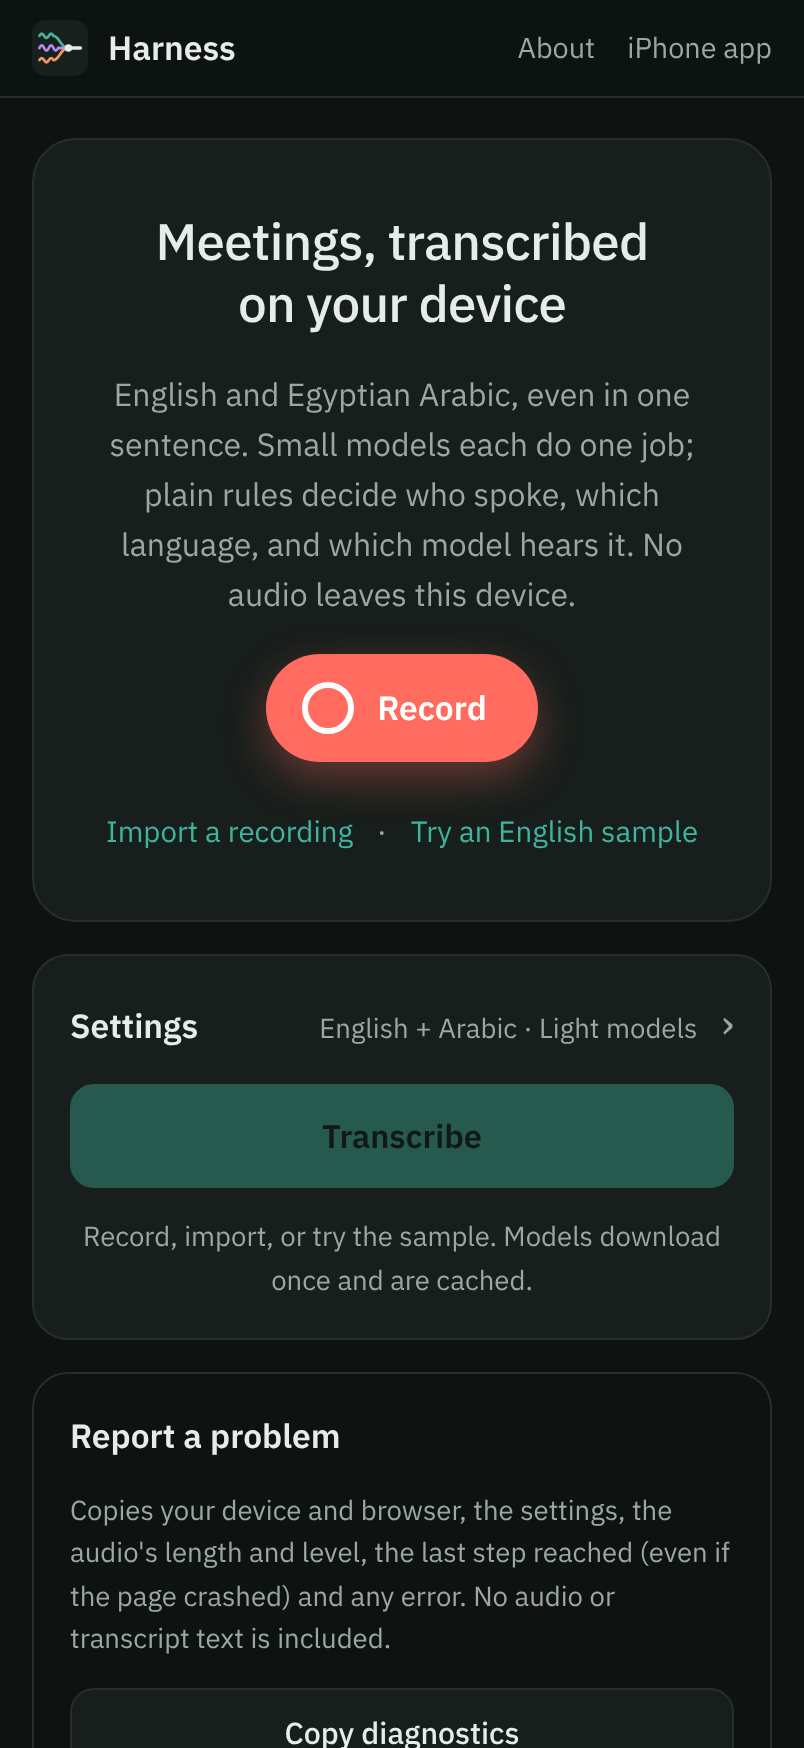
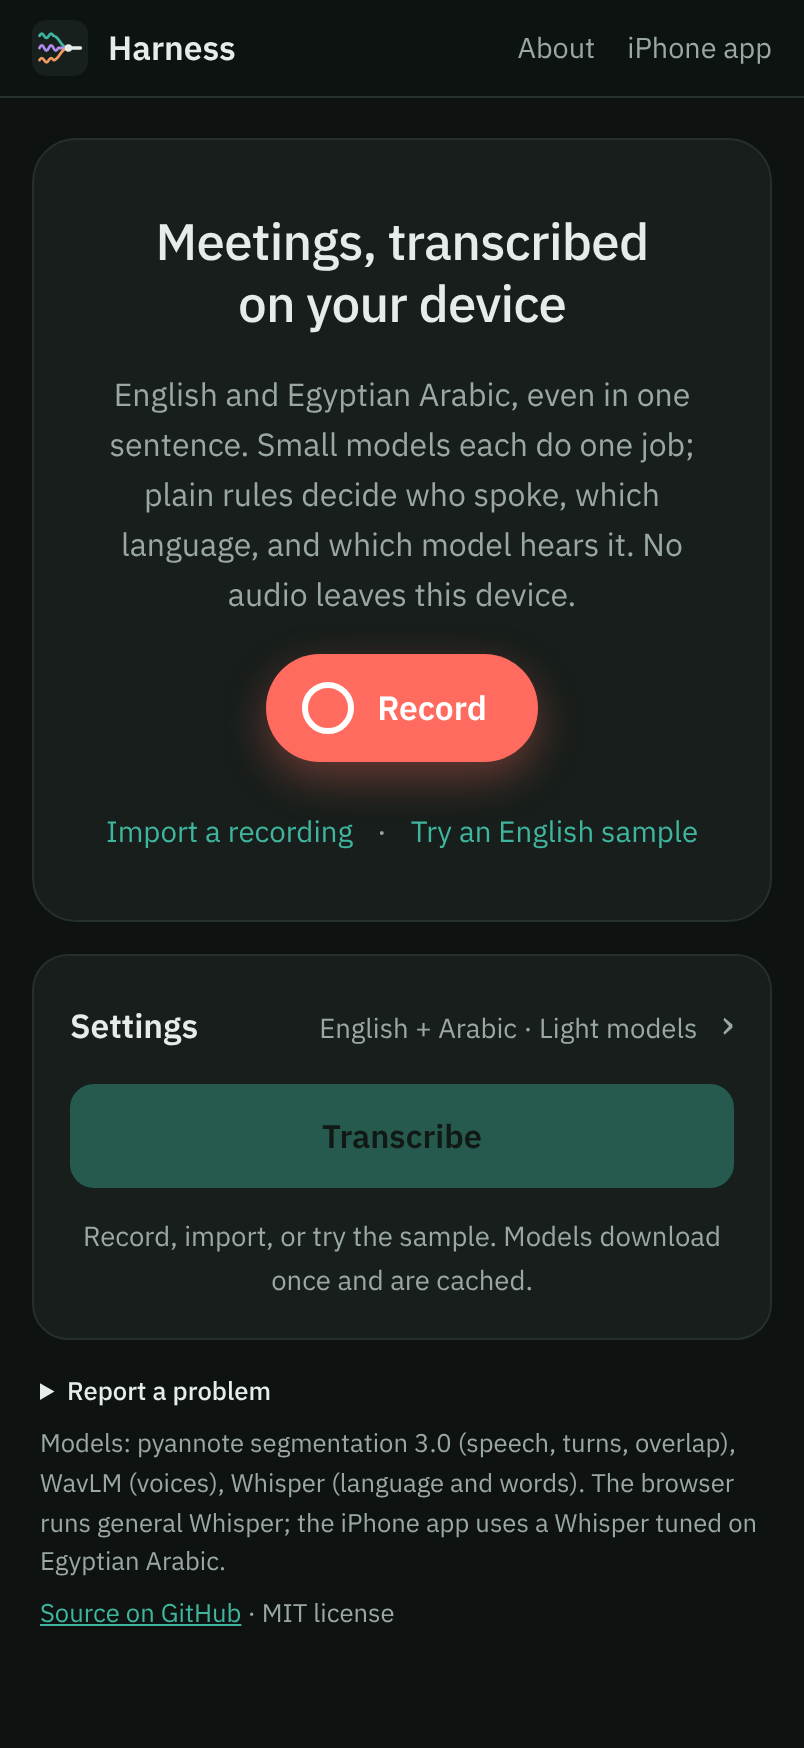
Web: a laptop layout, a recorder-only page while recording, Space to record
- While recording, only the recorder shows; captions get most of the screen
- From 1100 px wide: a wider column, speakers and stats beside the transcript
- Transcribe becomes a quiet "Transcribe again" once a transcript exists;
  new audio clears the old transcript
- Report a problem moves into the footer (opens itself after a crash)
- Space starts and stops a recording; a hint shows on devices with a mouse
- Speed reads "22×", the recording dot is clearer, the clock sits on the
  right, and the player appears once it knows the audio's length
- Refreshed web screenshots, plus laptop ones in the README

Claude-Session: https://claude.ai/code/session_014xnhRBsDfnwnmLicnjFtUc

Changed region(s): [[0.0311, 0.7723, 0.9639, 0.9577], [0.342, 0.9886, 0.653, 1.0]]

diff --git a/web/app.js b/web/app.js
@@ -96,7 +96,7 @@ $('record').addEventListener('click', async () => {
   } catch (e) {
     return showError(e.name === 'NotAllowedError' ? 'Microphone access was refused. Allow it in your browser settings, then try again.' : e.message);
   }
-  $('studio').dataset.state = 'recording';
+  setRecording(true);
   $('audio-ready').hidden = true;
   $('results').hidden = true;
   $('record-time').textContent = '00:00';
@@ -122,6 +122,22 @@ $('record').addEventListener('click', async () => {
   }
 });
 
+/** While recording, the page shows only the recorder: settings and old results wait. */
+function setRecording(on) {
+  $('studio').dataset.state = on ? 'recording' : 'idle';
+  document.body.dataset.mode = on ? 'recording' : '';
+}
+
+// Space starts and stops a recording, unless the focus is somewhere typing or clicking.
+addEventListener('keydown', (e) => {
+  if (e.code !== 'Space' || e.repeat || e.metaKey || e.ctrlKey || e.altKey) return;
+  if (e.target.closest?.('input, textarea, select, button, summary, audio, a, [contenteditable]')) return;
+  const recording = $('studio').dataset.state === 'recording';
+  if (!recording && ($('record').disabled || !$('progress').hidden)) return;
+  e.preventDefault();
+  $(recording ? 'stop' : 'record').click();
+});
+
 $('stop').addEventListener('click', async () => {
   clearInterval(ticker);
   cancelAnimationFrame(meterFrame);
@@ -133,7 +149,7 @@ $('stop').addEventListener('click', async () => {
   const recordedSeconds = recorder.elapsed;
   const mimeType = recorder.mimeType;
   const blob = await recorder.stop();
-  $('studio').dataset.state = 'idle';
+  setRecording(false);
   const ok = await useAudio(blob, `Recording ${new Date().toLocaleTimeString([], { hour: '2-digit', minute: '2-digit' })}`, { recordedSeconds, mimeType });
   if (ok) $('run').click();
 });
@@ -223,16 +239,30 @@ async function useAudio(blob, name, { recordedSeconds = null, mimeType = '' } = 
   }
   if (!Number.isFinite(speechDb) || speechDb < -60) notes.push('This audio is almost silent. Check the microphone and record closer to the sound.');
   state.audioName = name;
+  state.result = null;
+  $('results').hidden = true;
   $('audio-name').textContent = name;
   $('audio-duration').textContent = `${timestamp(seconds)} · speech level ${Number.isFinite(speechDb) ? speechDb.toFixed(0) : '–∞'} dB` +
     (gainDb > 1 ? `, raised ${gainDb.toFixed(0)} dB` : '');
   $('audio-note').textContent = notes.join(' ');
   $('audio-note').hidden = !notes.length;
+  $('player').hidden = true;
   $('player').src = URL.createObjectURL(blob);
   $('audio-ready').hidden = false;
-  $('run').disabled = false;
+  setRunButton(false);
   $('run-hint').textContent = 'The first run downloads the models, which can take a few minutes.';
   return true;
+}
+
+// The player appears once it knows the audio's length, never as an empty 0:00 / 0:00.
+$('player').addEventListener('loadedmetadata', () => ($('player').hidden = false));
+
+/** Before a run, Transcribe is the next step; after one, it becomes a quiet "Transcribe again". */
+function setRunButton(done) {
+  $('run').disabled = false;
+  $('run').textContent = done ? 'Transcribe again' : 'Transcribe';
+  $('run').classList.toggle('primary', !done);
+  $('run-hint').hidden = done;
 }
 
 // MARK: - Enrollment
@@ -291,7 +321,7 @@ $('run').addEventListener('click', async () => {
   } finally {
     wakeLock?.release?.().catch(() => {});
     showProgress(false);
-    $('run').disabled = false;
+    setRunButton(Boolean(state.result));
   }
 });
 
@@ -411,15 +441,16 @@ function renderResult() {
   const stats = [
     ['Audio', timestamp(duration)],
     ['Processing', `${wall.toFixed(0)} s`],
-    ['Speed', `${(duration / wall).toFixed(2)}× real time`],
+    ['Speed', speed(duration / wall), 'times faster than real time'],
     ['Speakers', String(speakerIds.length)],
     ['Languages', langs.join(' + ') || '–'],
   ];
-  $('stats').replaceChildren(...stats.map(([k, v]) => {
+  $('stats').replaceChildren(...stats.map(([k, v, title]) => {
     const div = document.createElement('div');
     div.innerHTML = '<dt></dt><dd></dd>';
     div.firstChild.textContent = k;
     div.lastChild.textContent = v;
+    if (title) div.title = title;
     return div;
   }));
 
@@ -457,6 +488,11 @@ function renderResult() {
   $('log').textContent = log.join('\n');
   $('results').hidden = false;
   $('results').scrollIntoView({ behavior: matchMedia('(prefers-reduced-motion: reduce)').matches ? 'auto' : 'smooth' });
+}
+
+/** "22×", "3.4×", "0.6×": enough digits to compare, no more. */
+function speed(x) {
+  return `${x >= 10 ? Math.round(x) : x.toFixed(1)}×`;
 }
 
 function renderTranscript(t) {
@@ -591,8 +627,9 @@ function breadcrumb(update) {
   $('last-run').textContent =
     `The last run stopped during ${last.step} (${last.stage}) with ${last.preset} models on ${last.seconds ?? '?'} s of audio. ` +
     'The browser most likely ran out of memory and closed the page. Use Light models or a shorter recording, ' +
-    'and tap Copy diagnostics below to report it.';
+    'and use Report a problem at the bottom of the page.';
   $('last-run').hidden = false;
+  $('report').open = true;
   $('error-text').textContent = 'Previous run crashed.';
   $('error').hidden = false;
   breadcrumb({ status: 'reported' });
@@ -635,6 +672,7 @@ $('copy-diag').addEventListener('click', async () => {
 addEventListener('error', (e) => showError(`Unexpected error: ${e.message}`));
 addEventListener('unhandledrejection', (e) => showError(`Unexpected error: ${e.reason?.message ?? e.reason}`));
 function hideError() { $('error').hidden = true; }
+$('open-report').addEventListener('click', () => ($('report').open = true));
 
 // MARK: - Settings summary
 
@@ -649,7 +687,7 @@ updateSetupSummary();
 
 const demo = new URLSearchParams(location.search).get('demo');
 if (demo === 'live') {
-  $('studio').dataset.state = 'recording';
+  setRecording(true);
   $('record-time').textContent = '12:34';
   renderCaptions(DEMO_CAPTIONS.lines, DEMO_CAPTIONS.draft);
   $('live-hint').textContent = 'Live captions are drafts. The full transcript, with speakers, is made when you stop.';
@@ -661,7 +699,7 @@ if (demo === 'live') {
   $('audio-name').textContent = 'Product standup';
   $('audio-duration').textContent = '12:34 · speech level −31 dB, raised 11 dB';
   $('audio-ready').hidden = false;
-  $('run').disabled = false;
+  setRunButton(true);
   renderResult();
   window.scrollTo(0, 0);
 }

diff --git a/web/styles.css b/web/styles.css
@@ -61,6 +61,9 @@ p { margin: 0; }
 .visually-hidden { position: absolute; width: 1px; height: 1px; overflow: hidden; clip: rect(0 0 0 0); white-space: nowrap; }
 .warn-note { font-size: 0.86rem; color: var(--warn); background: var(--warn-bg); padding: 8px 12px; border-radius: 10px; }
 
+/* While recording, the recorder is the whole page. */
+body[data-mode="recording"] .page > :not(.studio):not(.error) { display: none; }
+
 /* MARK: Studio */
 .studio { border-radius: 22px; overflow: hidden; background: var(--card); border: 1px solid var(--rule); }
 .studio-idle { display: grid; justify-items: center; gap: 18px; padding: 36px 22px 26px; text-align: center; }
@@ -69,20 +72,23 @@ p { margin: 0; }
 .record-button { appearance: none; border: 0; cursor: pointer; display: inline-flex; align-items: center; gap: 12px; padding: 14px 26px 14px 18px; border-radius: 999px; background: var(--record); color: #fff; font: 600 1.05rem var(--sans); box-shadow: 0 8px 22px color-mix(in srgb, var(--record) 35%, transparent); }
 .record-dot { width: 26px; height: 26px; border-radius: 50%; border: 3px solid #fff; background: var(--record); box-shadow: inset 0 0 0 3px var(--record); }
 .studio-links { display: flex; gap: 10px; align-items: center; color: var(--muted); font-size: 0.92rem; }
+.key-hint { display: none; margin-top: -10px; font-size: 0.82rem; color: var(--muted); }
+@media (hover: hover) and (pointer: fine) { .key-hint { display: block; } }
+kbd { font: 500 0.78rem var(--mono); padding: 1px 6px; border: 1px solid var(--rule); border-bottom-width: 2px; border-radius: 5px; background: var(--paper); }
 .text-button { appearance: none; background: none; border: 0; color: var(--signal); font: inherit; cursor: pointer; padding: 6px 2px; }
 
 .studio-live { display: none; background: var(--night); color: var(--night-ink); padding: 18px 20px 22px; gap: 14px; min-height: 420px; grid-template-rows: auto auto 1fr auto auto; }
 .studio[data-state="recording"] .studio-live { display: grid; }
 .studio[data-state="recording"] .studio-idle { display: none; }
 .studio[data-state="recording"] { border-color: transparent; }
-.live-head { display: flex; align-items: center; gap: 10px; font-weight: 600; font-size: 0.95rem; }
-.live-dot { width: 10px; height: 10px; border-radius: 50%; background: #ff6b5f; }
-@media (prefers-reduced-motion: no-preference) { .live-dot { animation: pulse 1.2s ease-in-out infinite; } }
-@keyframes pulse { 50% { opacity: 0.3; } }
+.live-head { display: flex; flex-wrap: wrap; align-items: center; gap: 10px; font-weight: 600; font-size: 0.95rem; }
+.live-dot { width: 12px; height: 12px; border-radius: 50%; background: #ff6b5f; box-shadow: 0 0 0 4px rgb(255 107 95 / 0.2); }
+@media (prefers-reduced-motion: no-preference) { .live-dot { animation: pulse 1.4s ease-in-out infinite; } }
+@keyframes pulse { 50% { opacity: 0.5; } }
 .live-clock { margin-left: auto; font-size: 1.6rem; font-weight: 300; letter-spacing: 0.02em; }
 .live-private { flex-basis: 100%; font-size: 0.8rem; font-weight: 400; color: color-mix(in srgb, var(--night-ink) 55%, transparent); margin-top: -6px; }
 .meter { width: 100%; height: 72px; display: block; }
-.captions { overflow-y: auto; max-height: 300px; display: flex; flex-direction: column; gap: 12px; -webkit-mask-image: linear-gradient(transparent, #000 22%); mask-image: linear-gradient(transparent, #000 22%); padding-top: 24px; scrollbar-width: none; }
+.captions { overflow-y: auto; max-height: min(50vh, 560px); display: flex; flex-direction: column; gap: 12px; -webkit-mask-image: linear-gradient(transparent, #000 22%); mask-image: linear-gradient(transparent, #000 22%); padding-top: 24px; scrollbar-width: none; }
 .caption { font-size: 1.22rem; font-weight: 500; line-height: 1.5; color: var(--night-ink); }
 .caption:lang(ar) { font-family: var(--arabic); font-size: 1.32rem; line-height: 1.7; }
 .caption.draft { opacity: 0.5; }
@@ -177,3 +183,24 @@ progress { width: 100%; height: 6px; accent-color: var(--signal); }
 .log { margin: 0; padding: 12px; background: var(--paper); border-radius: 10px; font: 0.74rem/1.55 var(--mono); overflow-x: auto; white-space: pre; }
 
 .footer { font-size: 0.8rem; color: var(--muted); padding-inline: 4px; display: grid; gap: 6px; }
+.report > summary { cursor: pointer; color: var(--ink); font-weight: 500; width: fit-content; }
+.report[open] { display: grid; gap: 10px; padding: 14px; border: 1px solid var(--rule); border-radius: 14px; background: var(--card); margin-bottom: 6px; }
+.results-side, .results-main { display: grid; gap: 14px; min-width: 0; }
+
+/* MARK: Laptop and wider: a wider column, speakers beside the transcript. */
+@media (min-width: 1100px) {
+  .page, .topbar-inner { max-width: 62rem; }
+  .studio-idle { padding-block: 48px 34px; }
+  .studio-live { min-height: min(760px, calc(100vh - 110px)); padding: 22px 28px 26px; }
+  .caption { font-size: 1.4rem; }
+  .caption:lang(ar) { font-size: 1.5rem; }
+  .results { grid-template-columns: 14rem minmax(0, 1fr); column-gap: 32px; align-items: start; }
+  .results-side { position: sticky; top: 76px; display: grid; gap: 18px; }
+  .stats { display: grid; grid-template-columns: 1fr 1fr; gap: 12px 16px; }
+  .speakers { flex-direction: column; }
+  .speaker-edit { border-radius: 14px; }
+  .speaker-edit input { width: 100%; }
+  .transcript { margin: -10px -18px 0 0; }
+  .turn-head { padding-left: 0; }
+  .seg { padding-left: 40px; }
+}

diff --git a/web/index.html b/web/index.html
@@ -35,6 +35,7 @@
           <span class="record-dot" aria-hidden="true"></span>
           <span id="record-label">Record</span>
         </button>
+        <p class="key-hint">or press <kbd>Space</kbd></p>
         <div class="studio-links">
           <label class="text-button" for="file">Import a recording</label>
           <input id="file" type="file" accept="audio/*,.m4a,.mp3,.wav,.aac" class="visually-hidden">
@@ -62,7 +63,7 @@
           <span id="audio-duration" class="mono muted"></span>
         </div>
         <p id="audio-note" class="warn-note" hidden></p>
-        <audio id="player" controls preload="metadata"></audio>
+        <audio id="player" controls preload="metadata" hidden></audio>
       </div>
     </section>
 
@@ -136,15 +137,18 @@
 
     <section id="error" class="panel error" role="alert" hidden>
       <p id="error-text"></p>
-      <p class="hint">To report it, use Copy diagnostics at the bottom of the page.</p>
+      <p class="hint">To report it, open <a href="#report" id="open-report">Report a problem</a> at the bottom of the page.</p>
     </section>
 
     <section id="results" class="panel results" hidden aria-labelledby="results-title">
-      <div class="results-head">
-        <h2 id="results-title">Transcript</h2>
-        <dl class="stats" id="stats"></dl>
+      <div class="results-side">
+        <div class="results-head">
+          <h2 id="results-title">Transcript</h2>
+          <dl class="stats" id="stats"></dl>
+        </div>
+        <div id="speakers" class="speakers"></div>
       </div>
-      <div id="speakers" class="speakers"></div>
+      <div class="results-main">
       <ol id="transcript" class="transcript"></ol>
       <div id="gaps"></div>
 
@@ -170,16 +174,16 @@
         <button id="score" class="button" type="button">Score</button>
         <p id="score-out" class="mono"></p>
       </details>
-    </section>
-
-    <section class="panel quiet" aria-labelledby="report-title">
-      <h2 id="report-title">Report a problem</h2>
-      <p class="hint">Copies your device and browser, the settings, the audio's length and level, the last step reached (even if the page crashed) and any error. No audio or transcript text is included.</p>
-      <button id="copy-diag" class="button" type="button">Copy diagnostics</button>
-      <pre id="diag-text" class="log" hidden></pre>
+      </div>
     </section>
 
     <footer class="footer">
+      <details id="report" class="report">
+        <summary>Report a problem</summary>
+        <p class="hint">Copies your device and browser, the settings, the audio's length and level, the last step reached (even if the page crashed) and any error. No audio or transcript text is included.</p>
+        <button id="copy-diag" class="button" type="button">Copy diagnostics</button>
+        <pre id="diag-text" class="log" hidden></pre>
+      </details>
       <p>Models: pyannote segmentation 3.0 (speech, turns, overlap), WavLM (voices), Whisper (language and words). The browser runs general Whisper; the iPhone app uses a Whisper tuned on Egyptian Arabic.</p>
       <p><a href="https://github.com/MohamedMostafaSal/meeting-harness">Source on GitHub</a> · MIT license</p>
     </footer>

diff --git a/README.md b/README.md
@@ -91,6 +91,13 @@ The app is the ears, not the brain. It produces the transcript and publishes it 
   <img src="docs/screenshots/web-transcript-light.png" width="200" alt="Web: transcript as a conversation">
 </p>
 
+On a laptop, live captions get the whole screen while recording, and speakers sit beside the transcript:
+
+<p align="center">
+  <img src="docs/screenshots/web-laptop-live-dark.png" width="400" alt="Web on a laptop: live captions while recording">
+  <img src="docs/screenshots/web-laptop-transcript-light.png" width="400" alt="Web on a laptop: speakers beside the transcript">
+</p>
+
 ## Example
 
 Real output from the web prototype's CI run, which joins two speeches by two different people:
